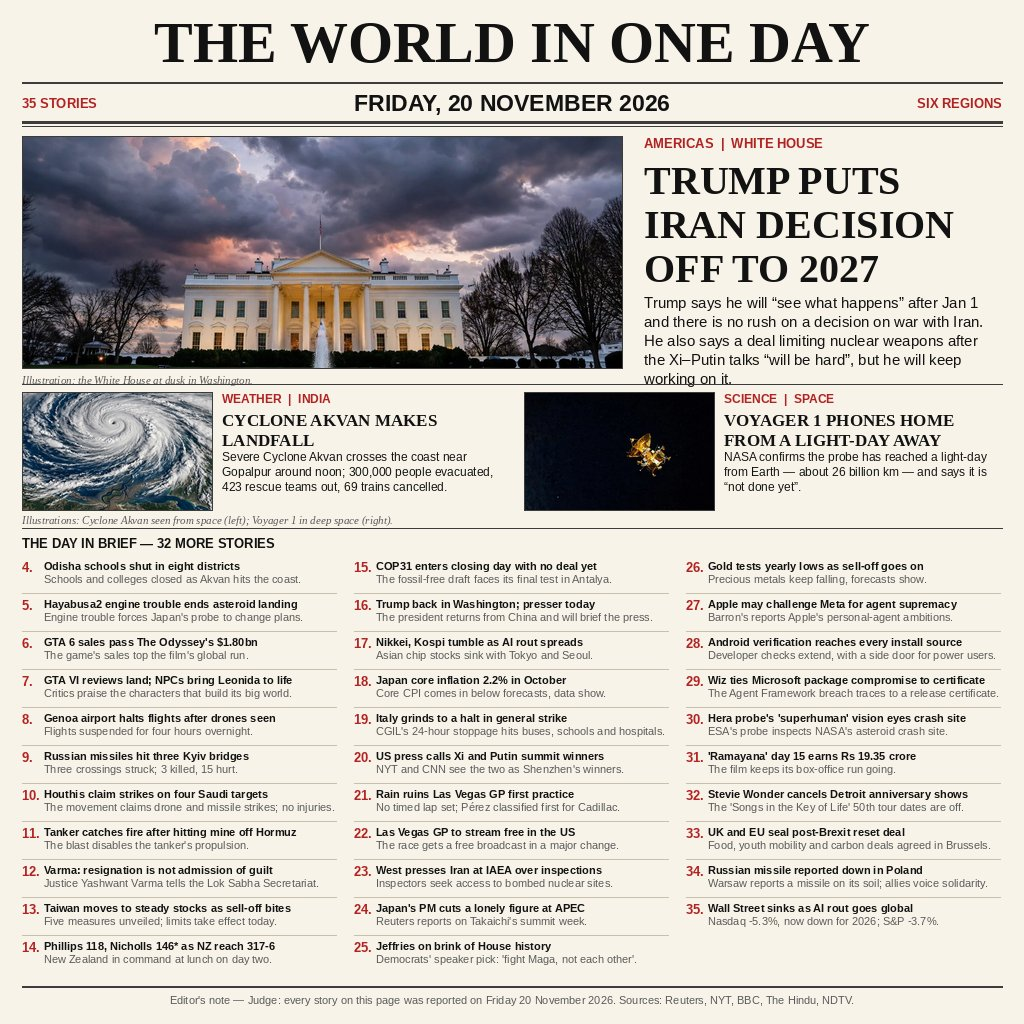
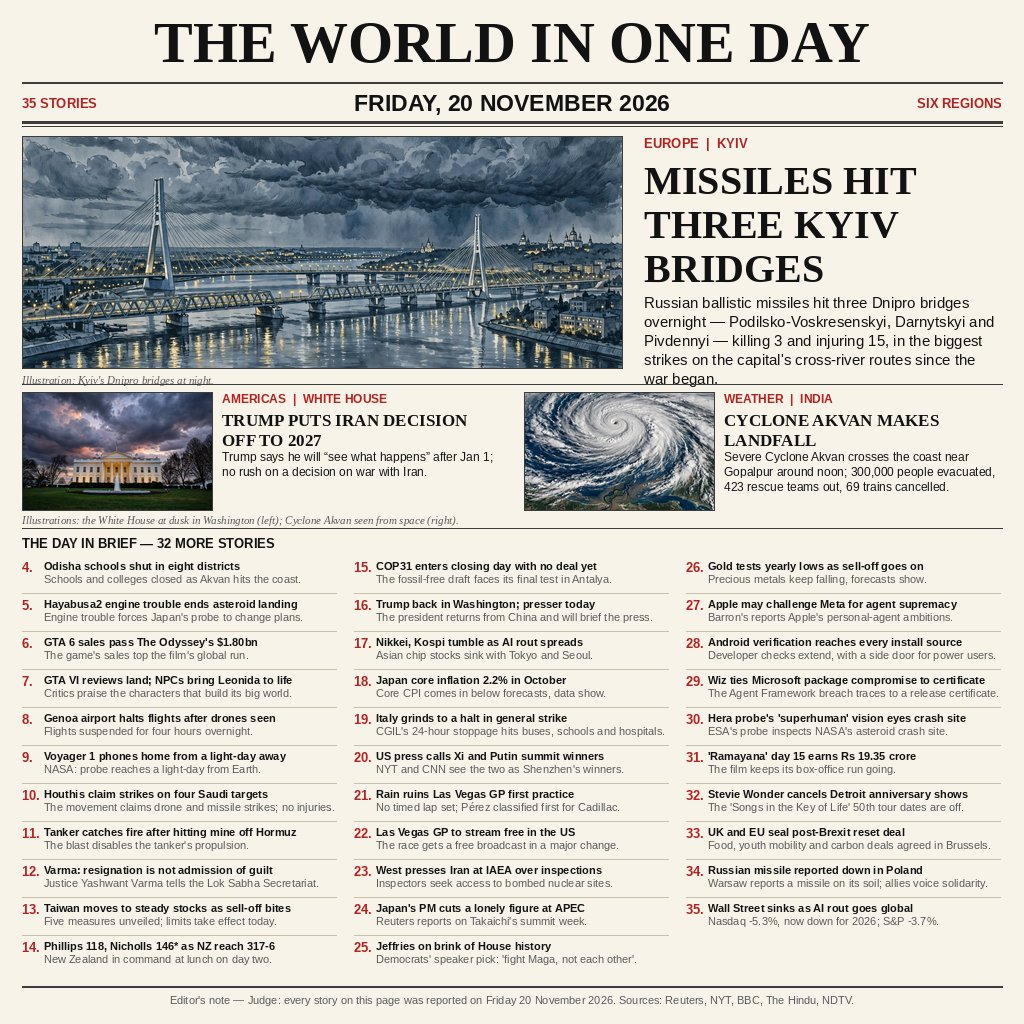
news-image-20261120 v5: Kyiv bridges lead — matches unanimous top-10 pattern

Changed region(s): [[0.0, 0.125, 0.9688, 0.5312], [0.0312, 0.7188, 0.2812, 0.7812]]

diff --git a/README.md b/README.md
@@ -12,15 +12,15 @@ world news in one image.
 A one-page newspaper front page, 1024×1024, with 35 numbered stories from
 six regions, all reported on Friday 20 November 2026:
 
-- **Lead:** Trump puts the Iran war decision off to 2027 — he will "see what
-  happens" after Jan 1 — and says a deal limiting nuclear weapons after the
-  Xi–Putin talks "will be hard", but he will keep working on it.
-- **Featured:** Cyclone Akvan makes landfall near Gopalpur, with 300,000
-  people evacuated and 69 trains cancelled; NASA confirms Voyager 1 has
-  reached a light-day from Earth.
+- **Lead:** Russian missiles hit three Kyiv bridges — three Dnipro crossings
+  struck overnight, 3 killed, 15 hurt, in the biggest strikes on the
+  capital's cross-river routes since the war began.
+- **Featured:** Trump puts the Iran war decision off to 2027 — he will "see what
+  happens" after Jan 1; Cyclone Akvan makes landfall near Gopalpur, with 300,000
+  people evacuated and 69 trains cancelled.
 - **32 more stories** in brief: Japan's Hayabusa2 engine trouble, GTA 6 sales
-  passing The Odyssey's $1.80bn, drones halting Genoa airport, Russian missiles
-  hitting three Kyiv bridges, Houthi claims on Saudi targets, a tanker fire off
+  passing The Odyssey's $1.80bn, drones halting Genoa airport, Voyager 1 phoning
+  home from a light-day away, Houthi claims on Saudi targets, a tanker fire off
   Hormuz, the Nikkei and Kospi tumble, COP31's closing day, the UK–EU reset deal,
   a Russian missile reported down in Poland, Wall Street's AI rout, and more —
   every item attributed where it is a claim, and every picture labelled as an
@@ -41,7 +41,7 @@ mkdir -p out && MAKEFUN_OUTPUT_DIR=out python3 main.py
 `/output/entry.png` and verifies the copy matches, so both grading runs
 write identical bytes. The image is JPEG bytes under the name `entry.png`
 (the rules allow a PNG or a JPEG, told apart by its first bytes),
-278,394 bytes, 1024×1024 — inside the 1 MiB / 1024×1024 gate.
+294,109 bytes, 1024×1024 — inside the 1 MiB / 1024×1024 gate.
 
 ---
 
